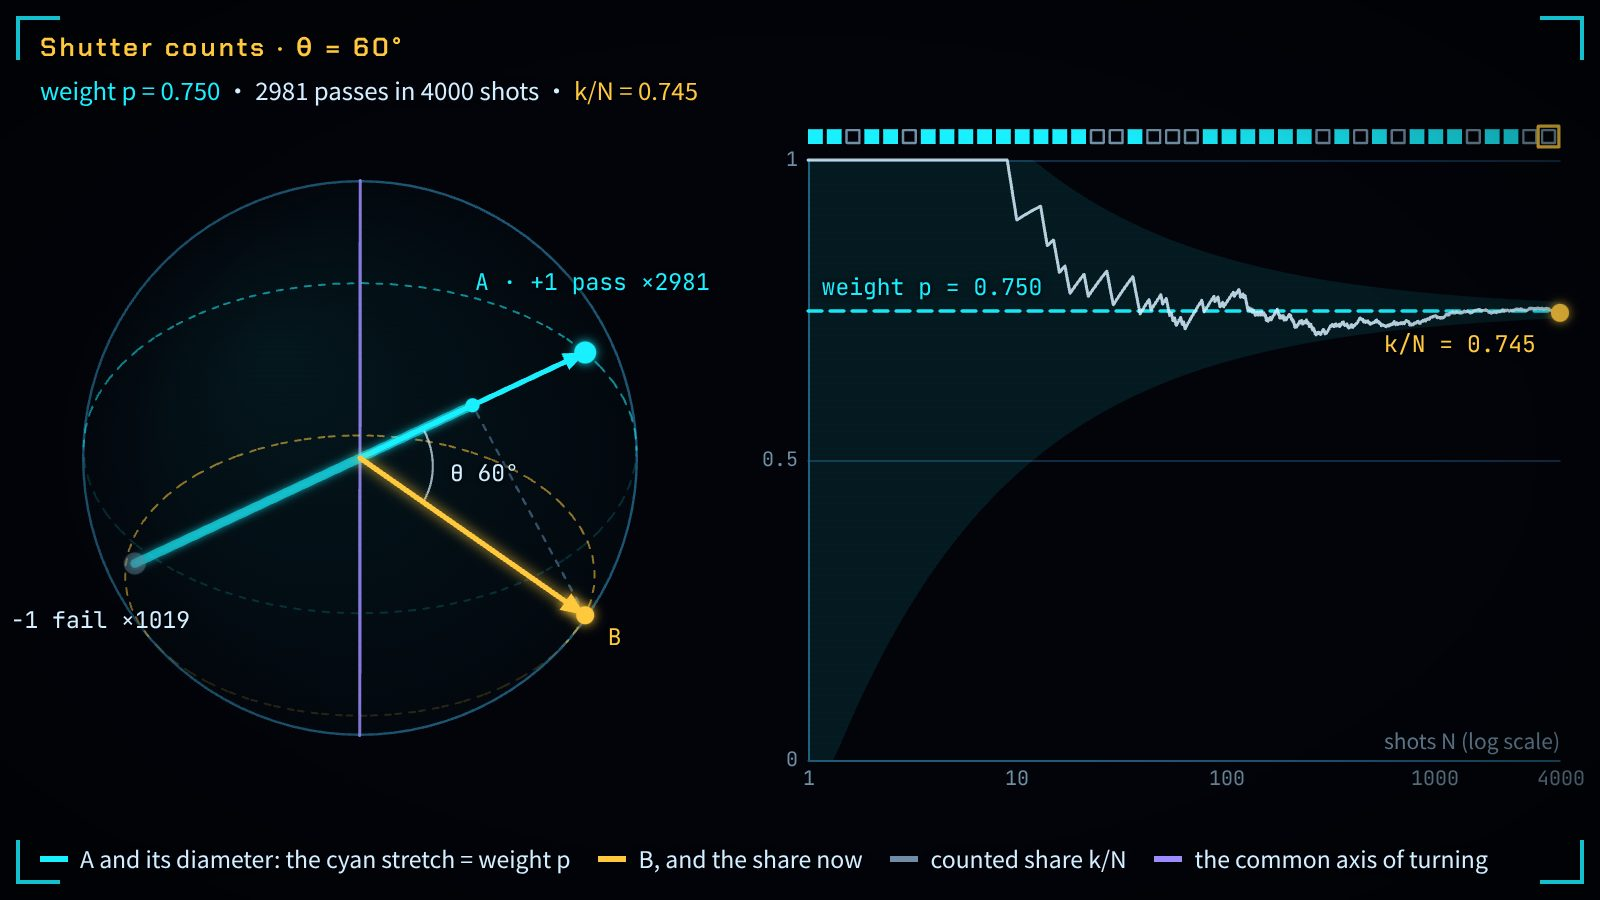
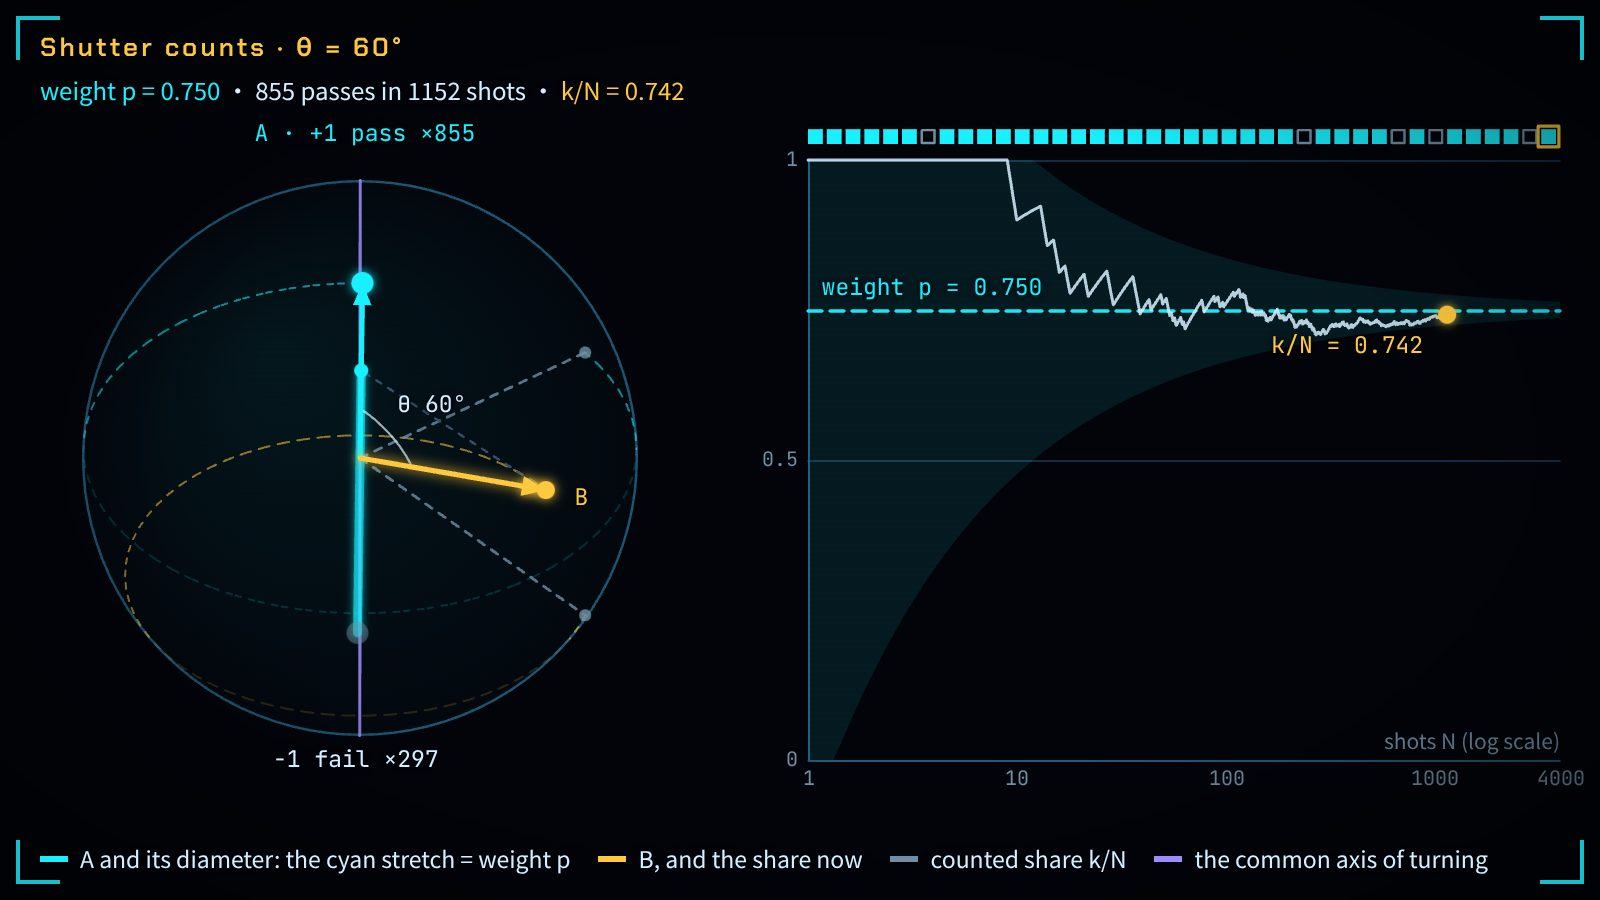
pairwise-shutter: stop the turn still part-way round, with the starting pair in grey
The turn card's still used to stop at the end of the run, after a full turn,
so the pair sat exactly where it started and the still did not show that it
had turned. It now stops 306 degrees round (1152 shots), and two grey dashed
arrows mark where the pair started. The suite opens the still and recounts
its passes from the same random numbers.

diff --git a/books/quantum-geometry/viz/pairwise-shutter/main.js b/books/quantum-geometry/viz/pairwise-shutter/main.js
@@ -144,6 +144,8 @@
         for (let i = 0; i <= M; i++) { const al = c.alpha * i / M; pa.push(rotA(al)); pb.push(rotB(al)); }
         st.path(pa, { color: P.cyan, width: 1, alpha: 0.55, dash: [3, 4] });
         st.path(pb, { color: P.amber, width: 1, alpha: 0.55, dash: [3, 4] });
+        // where the pair started: two grey dashed arrows, so a still shows that the pair has turned
+        if (c.alpha < 2 * Math.PI - 1e-3) for (const v of [S.A, S.B]) { st.line([0, 0, 0], v, { color: P.dim, width: 1.4, alpha: 0.8, dash: [4, 4] }); st.dot(v, 3, P.dim, { alpha: 0.8 }); }
       }
     }
     // A's diameter: from the −1 end to the foot of B (cyan, length 2p), and on to the +1 end (grey)
@@ -340,7 +342,7 @@
     right: { A: NORTH, B: v3.sph(90 * DEG, 40 * DEG), mode: 'fixed', turn: false, n: 4000, play: true },
     same: { A: NORTH, B: NORTH, mode: 'fixed', turn: false, n: 400, play: true },
     opposite: { A: NORTH, B: [0, 0, -1], mode: 'fixed', turn: false, n: 400, play: true },
-    turn: { A: v3.sph(60 * DEG, 0), B: v3.sph(120 * DEG, 0), mode: 'fixed', turn: true, n: 4000, play: true },
+    turn: { A: v3.sph(60 * DEG, 0), B: v3.sph(120 * DEG, 0), mode: 'fixed', turn: true, n: 4000, play: true, still: 0.85 },
     random: { A: NORTH, B: v3.sph(60 * DEG, 0), mode: 'random', turn: false, n: 4000, play: true }
   };
   const NOTES = {
@@ -349,7 +351,7 @@
     right: ['B 与 A 垂直，权重 1/2：过与不过一样多。浅色带在这里最宽，细曲线在 1/2 上下摆得最厉害，但还是一路收窄。', 'B is perpendicular to A, weight 1/2: as many passes as fails. The pale band is widest here and the thin curve wobbles most around 1/2, yet it still narrows all the way.'],
     same: ['B 与 A 重合，青色的一段占满整条直径，权重 1：每一次都过，方块全是实心，曲线从第一次起就贴在 1 上。', 'B coincides with A and the cyan stretch fills the whole diameter, weight 1: every shot passes, every square is solid, and the curve sits on 1 from the first shot.'],
     opposite: ['B 在 A 的对面，青色的一段缩成一点，权重 0：一次也不过，方块全是空心，曲线从第一次起就贴在 0 上。', 'B is opposite A and the cyan stretch shrinks to a point, weight 0: not a single pass, every square is hollow, and the curve sits on 0 from the first shot.'],
-    turn: ['与 60° 那张卡同一对箭头、同一串随机数，只是每按一次快门之前，两支箭头绕紫色的轴一起转一点。虚线是两支箭尖走过的路；夹角一直是 60°，权重一直是 3/4，数出来的曲线与不转时一模一样。', 'The same pair and the same random numbers as the 60° card, except that before each shot both arrows turn a little about the violet axis. The dashed paths are where the tips have been; the angle stays 60°, the weight stays 3/4, and the counted curve is exactly the one without turning.'],
+    turn: ['与 60° 那张卡同一对箭头、同一串随机数，只是每按一次快门之前，两支箭头绕紫色的轴一起转一点。虚线是两支箭尖走过的路，灰色虚线箭头是出发时的那一对；夹角一直是 60°，权重一直是 3/4，数出来的曲线与不转时一模一样。', 'The same pair and the same random numbers as the 60° card, except that before each shot both arrows turn a little about the violet axis. The dashed paths are where the tips have been and the grey dashed arrows are the pair as it started; the angle stays 60°, the weight stays 3/4, and the counted curve is exactly the one without turning.'],
     random: ['每按一次快门，B 换一个球面上均匀随机的方向，灰点是已经取过的方向。右边把它们的权重分成十段计数：开头高低不齐，越数越平，每段都向 1/10 的青色虚线靠拢。', 'For each shot B takes a fresh uniformly random direction on the sphere; the grey dots are the directions so far. On the right their weights are counted in ten bins: ragged at first, flatter as they fill, each bin closing in on the dashed cyan line at 1/10.']
   };
   let booting = true, moving = null;
@@ -362,9 +364,10 @@
       S.A = p.A.slice(); S.B = p.B.slice(); S.mode = p.mode; S.turn = p.turn; S.seed = 1;
       modeChips.set(p.mode, true); turnChips.set(p.turn ? 'on' : 'off', true);
       setRun(p.n); clock.pause(); clock.set(0);
-      // a still (cover, cited figure shot) and the opening view of the full page show the whole run;
+      // a still (cover, cited figure shot) and the opening view of the full page show the whole run (or the card's
+      // telling moment: the turning pair stops 306° of the way round, clear of where it started);
       // inside a chapter the card plays once the reader has scrolled it into view; a click plays at once
-      if (TRV.still || (booting && !TRV.embed)) clock.set(clock.max); else if (p.play) { if (booting) kit.autoplay(clock, $('stage')); else clock.play(); }
+      if (TRV.still || (booting && !TRV.embed)) clock.set(clock.max * (p.still ?? 1)); else if (p.play) { if (booting) kit.autoplay(clock, $('stage')); else clock.play(); }
     };
     if (booting || TRV.still) { land(); return; }
     // carry the arrows to the card's start, so the eye can follow what changed
